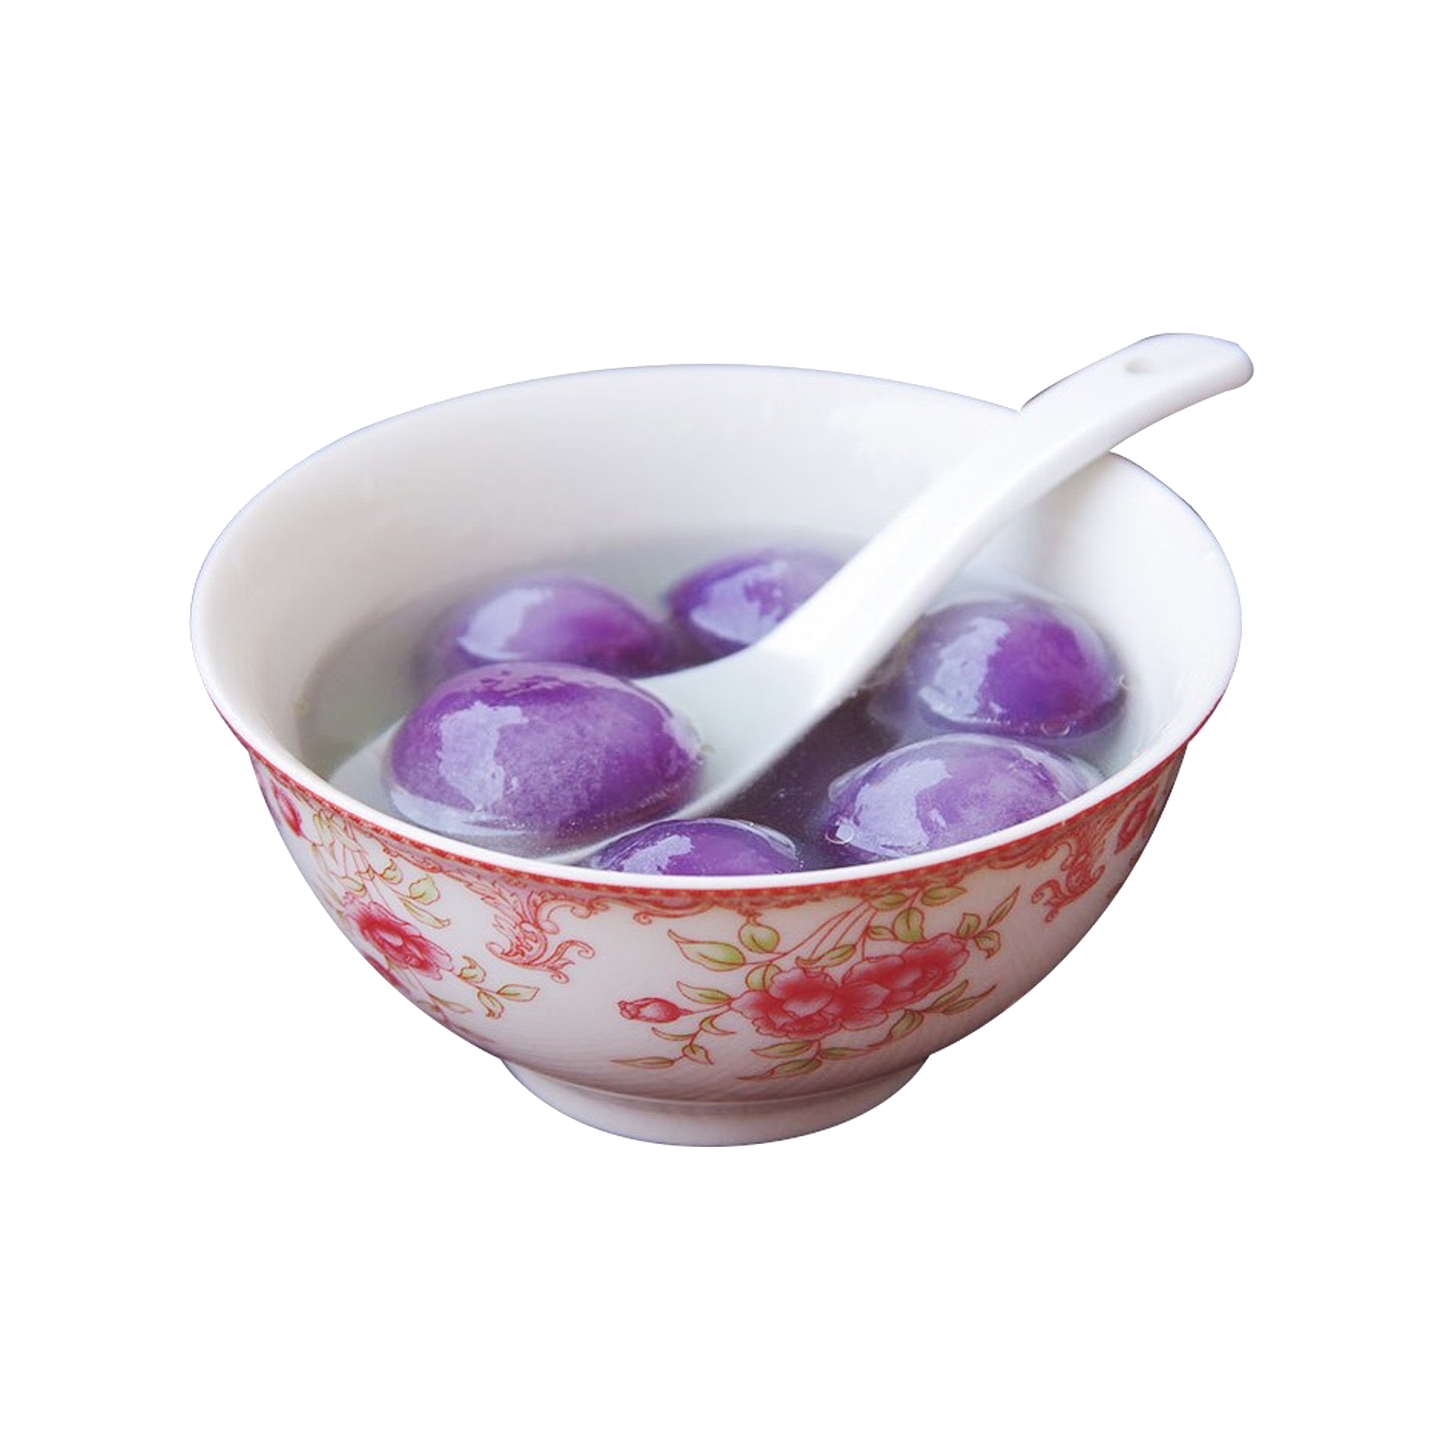
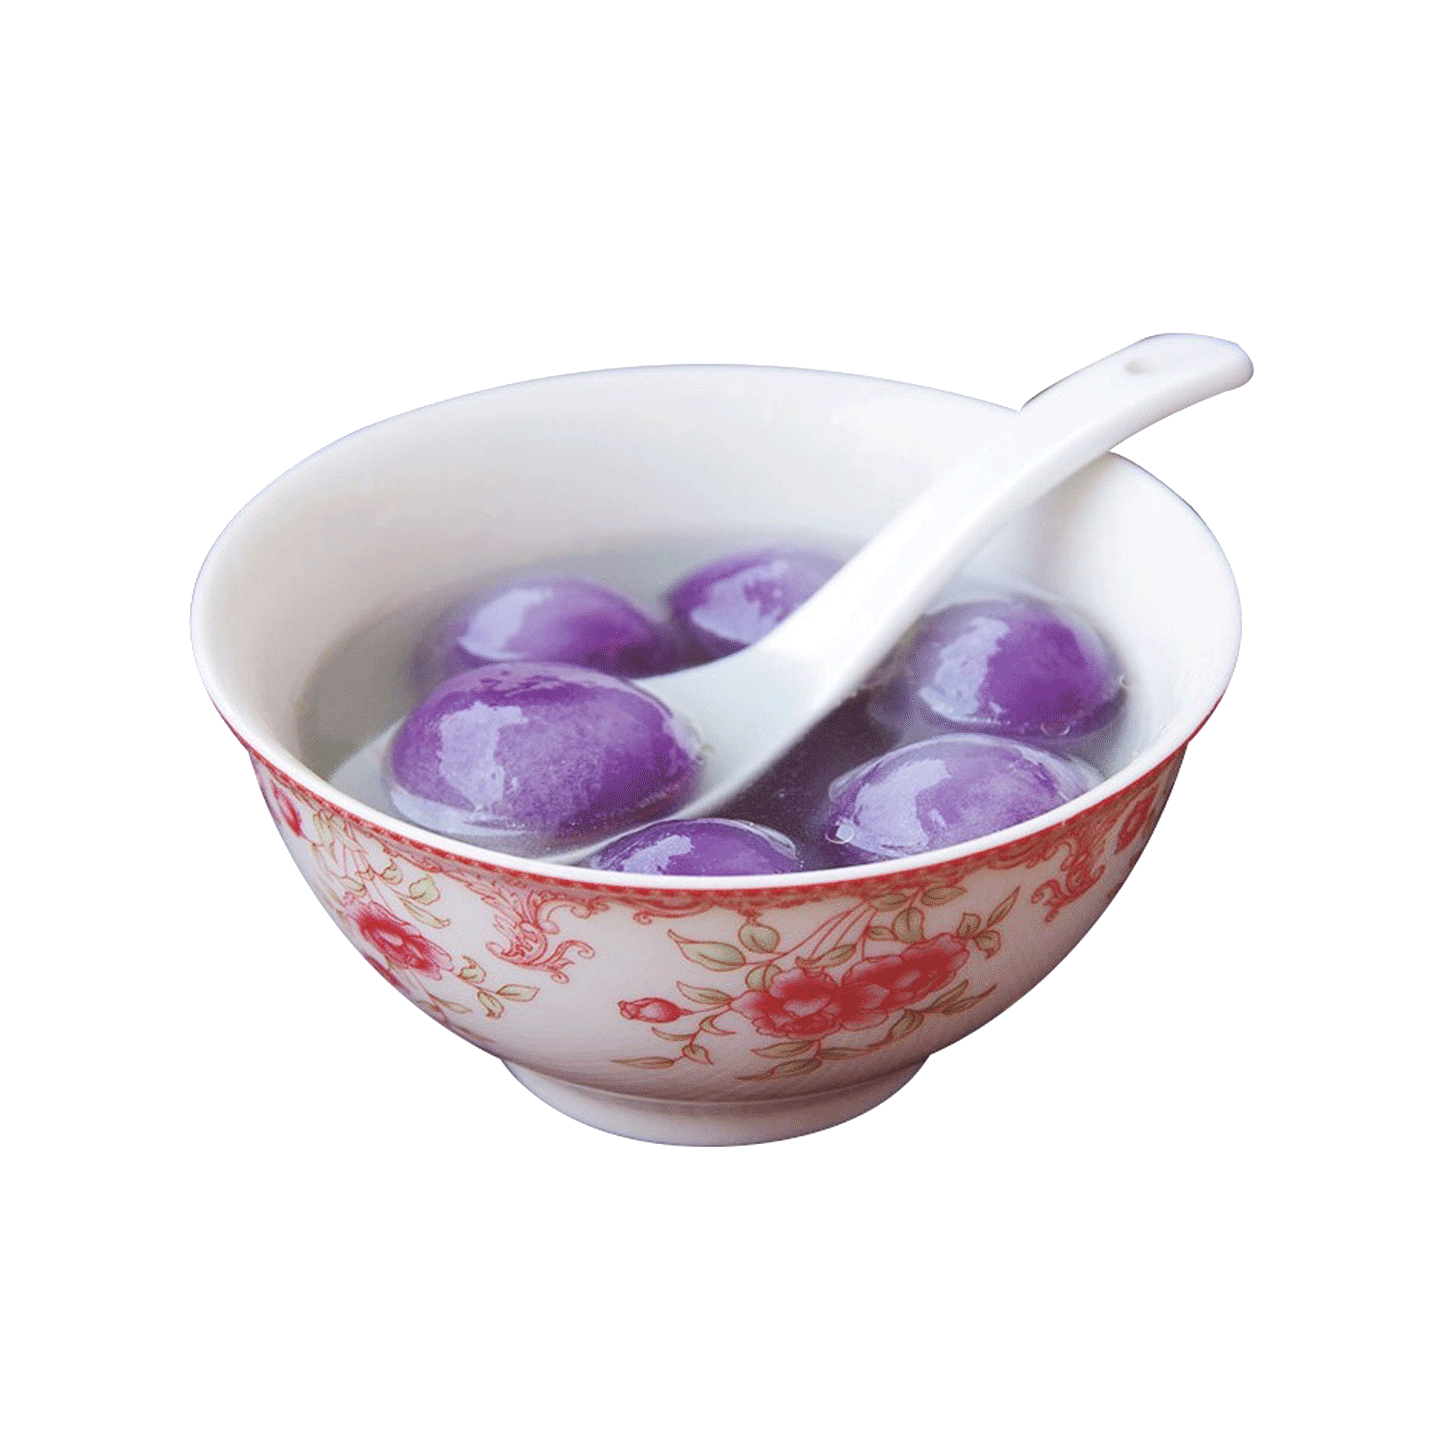
clean up and optimize images

diff --git a/README.md b/README.md
@@ -43,6 +43,4 @@ Push to GitHub repo and have it automatically deploy.
 ---
 ## To Do
 
-- Picture edits
 - Content writing
-- Clean up images one by one
